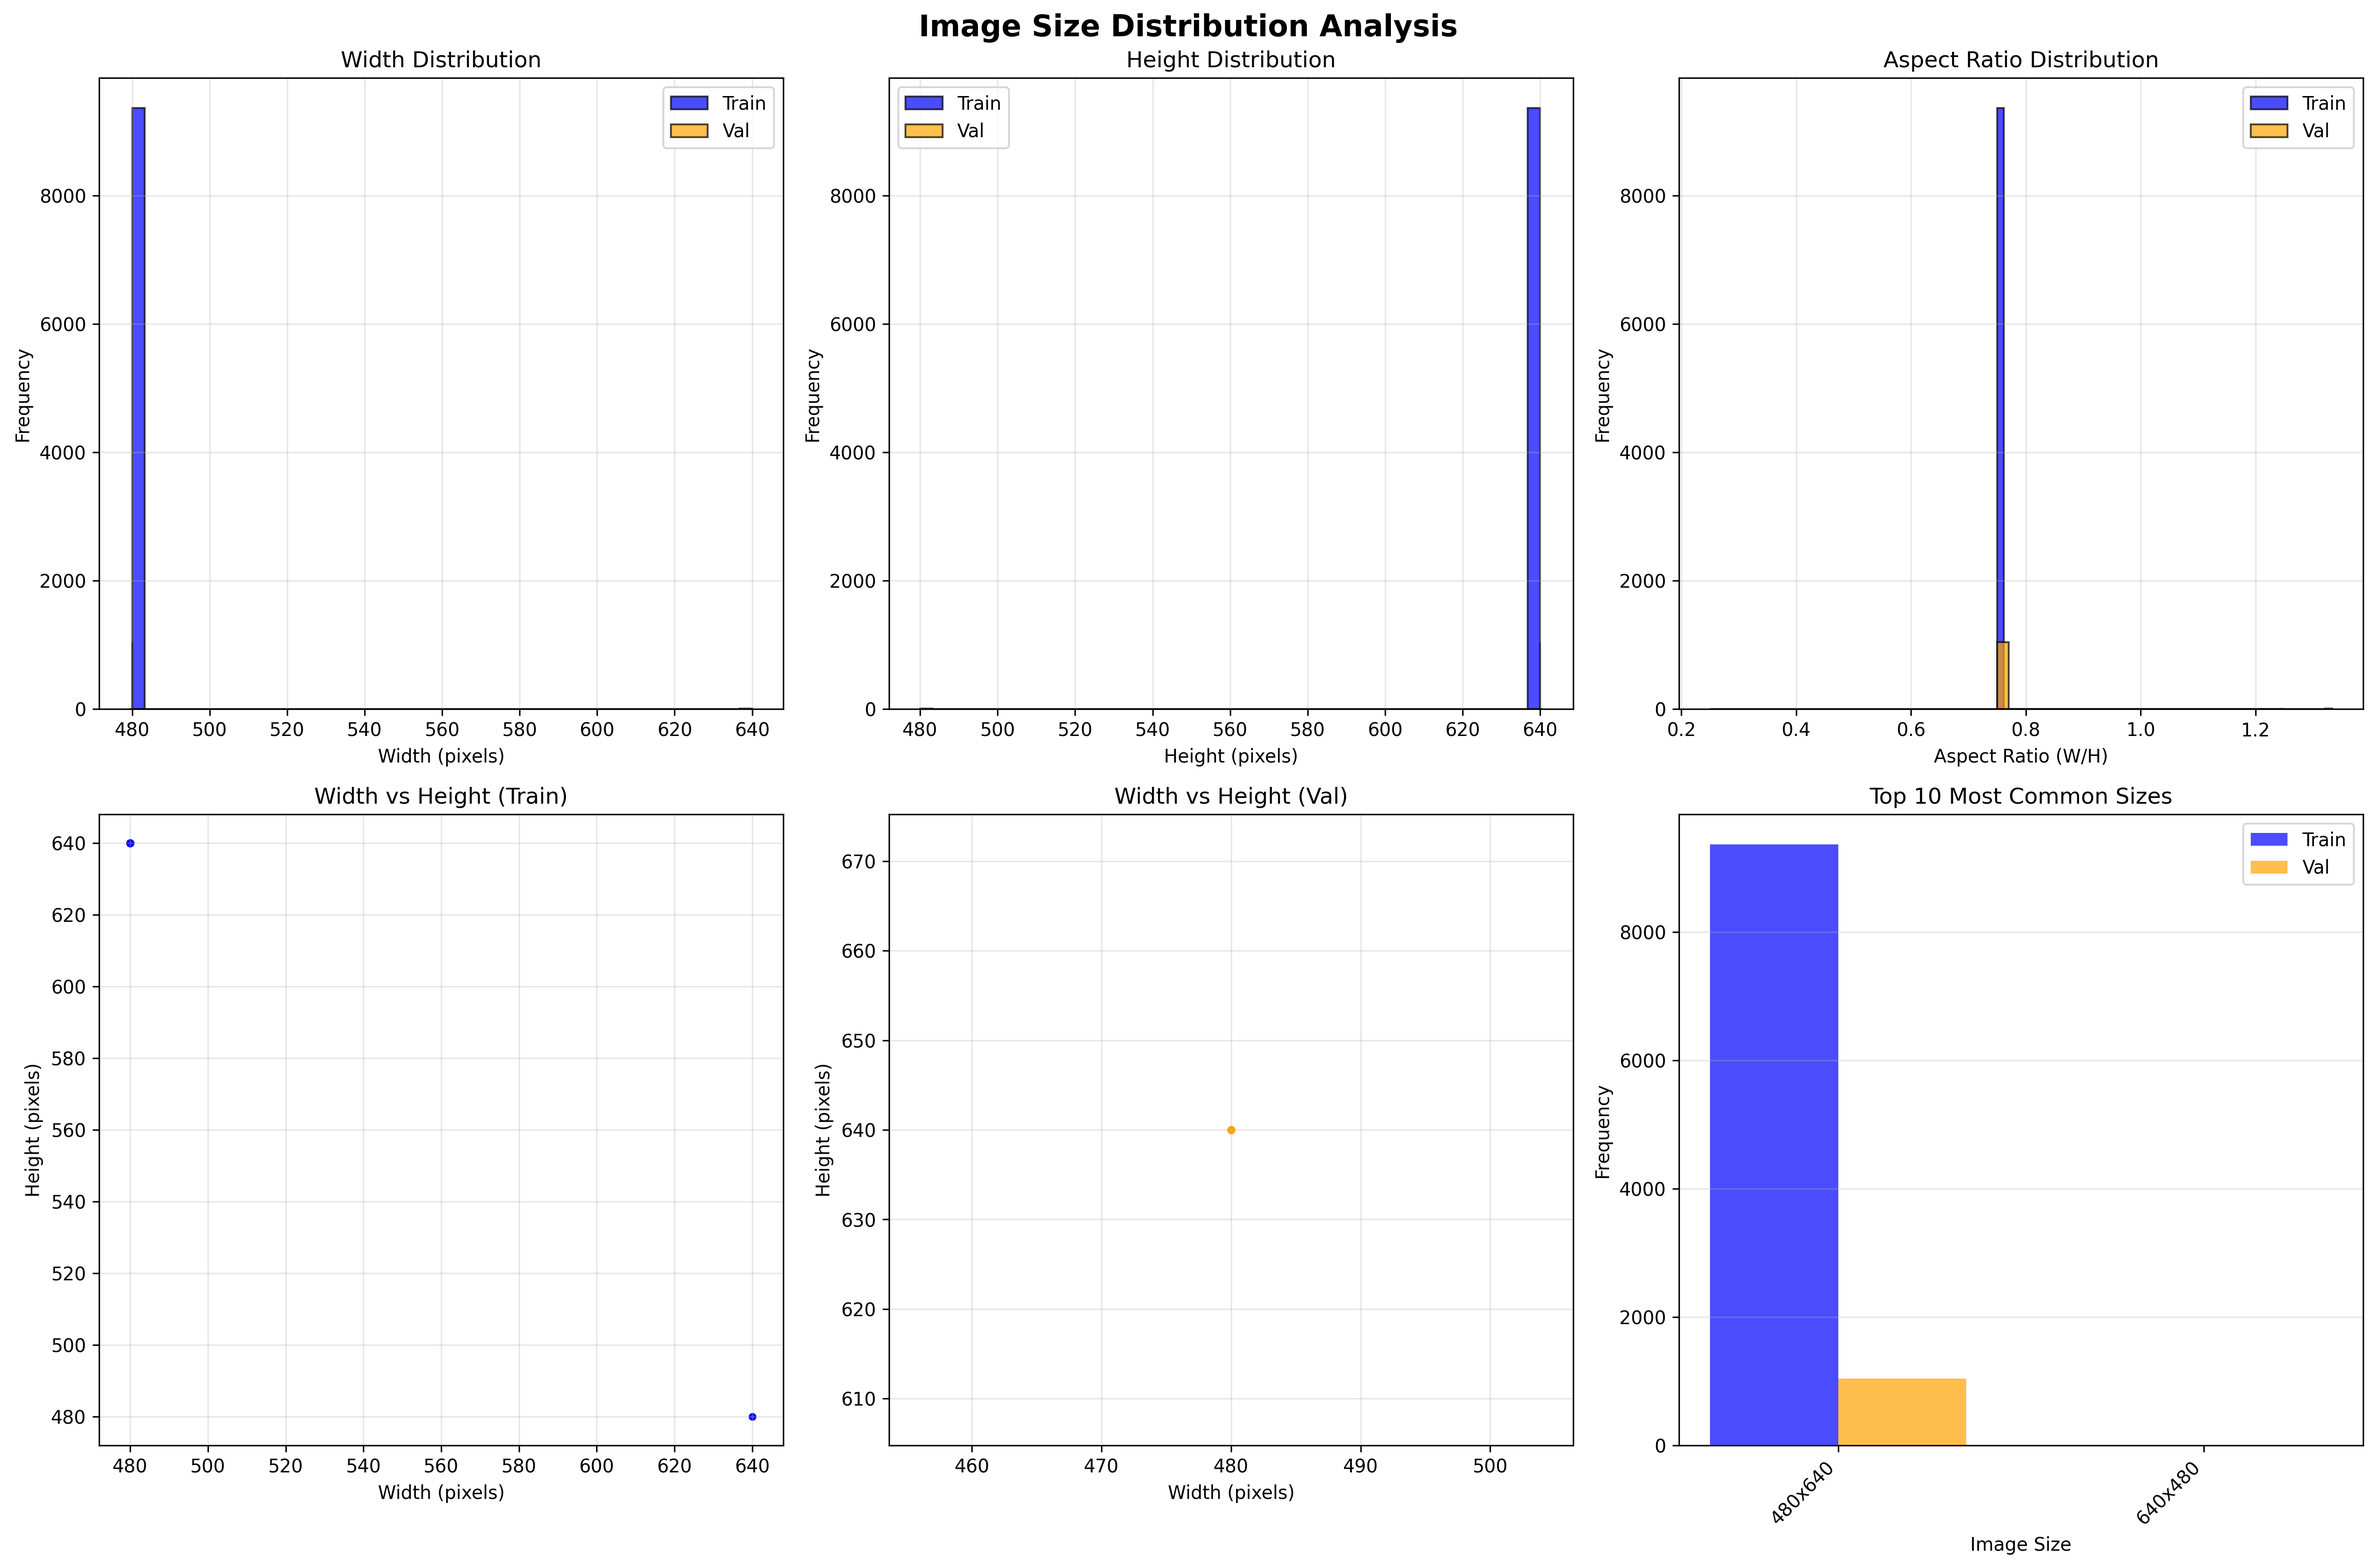
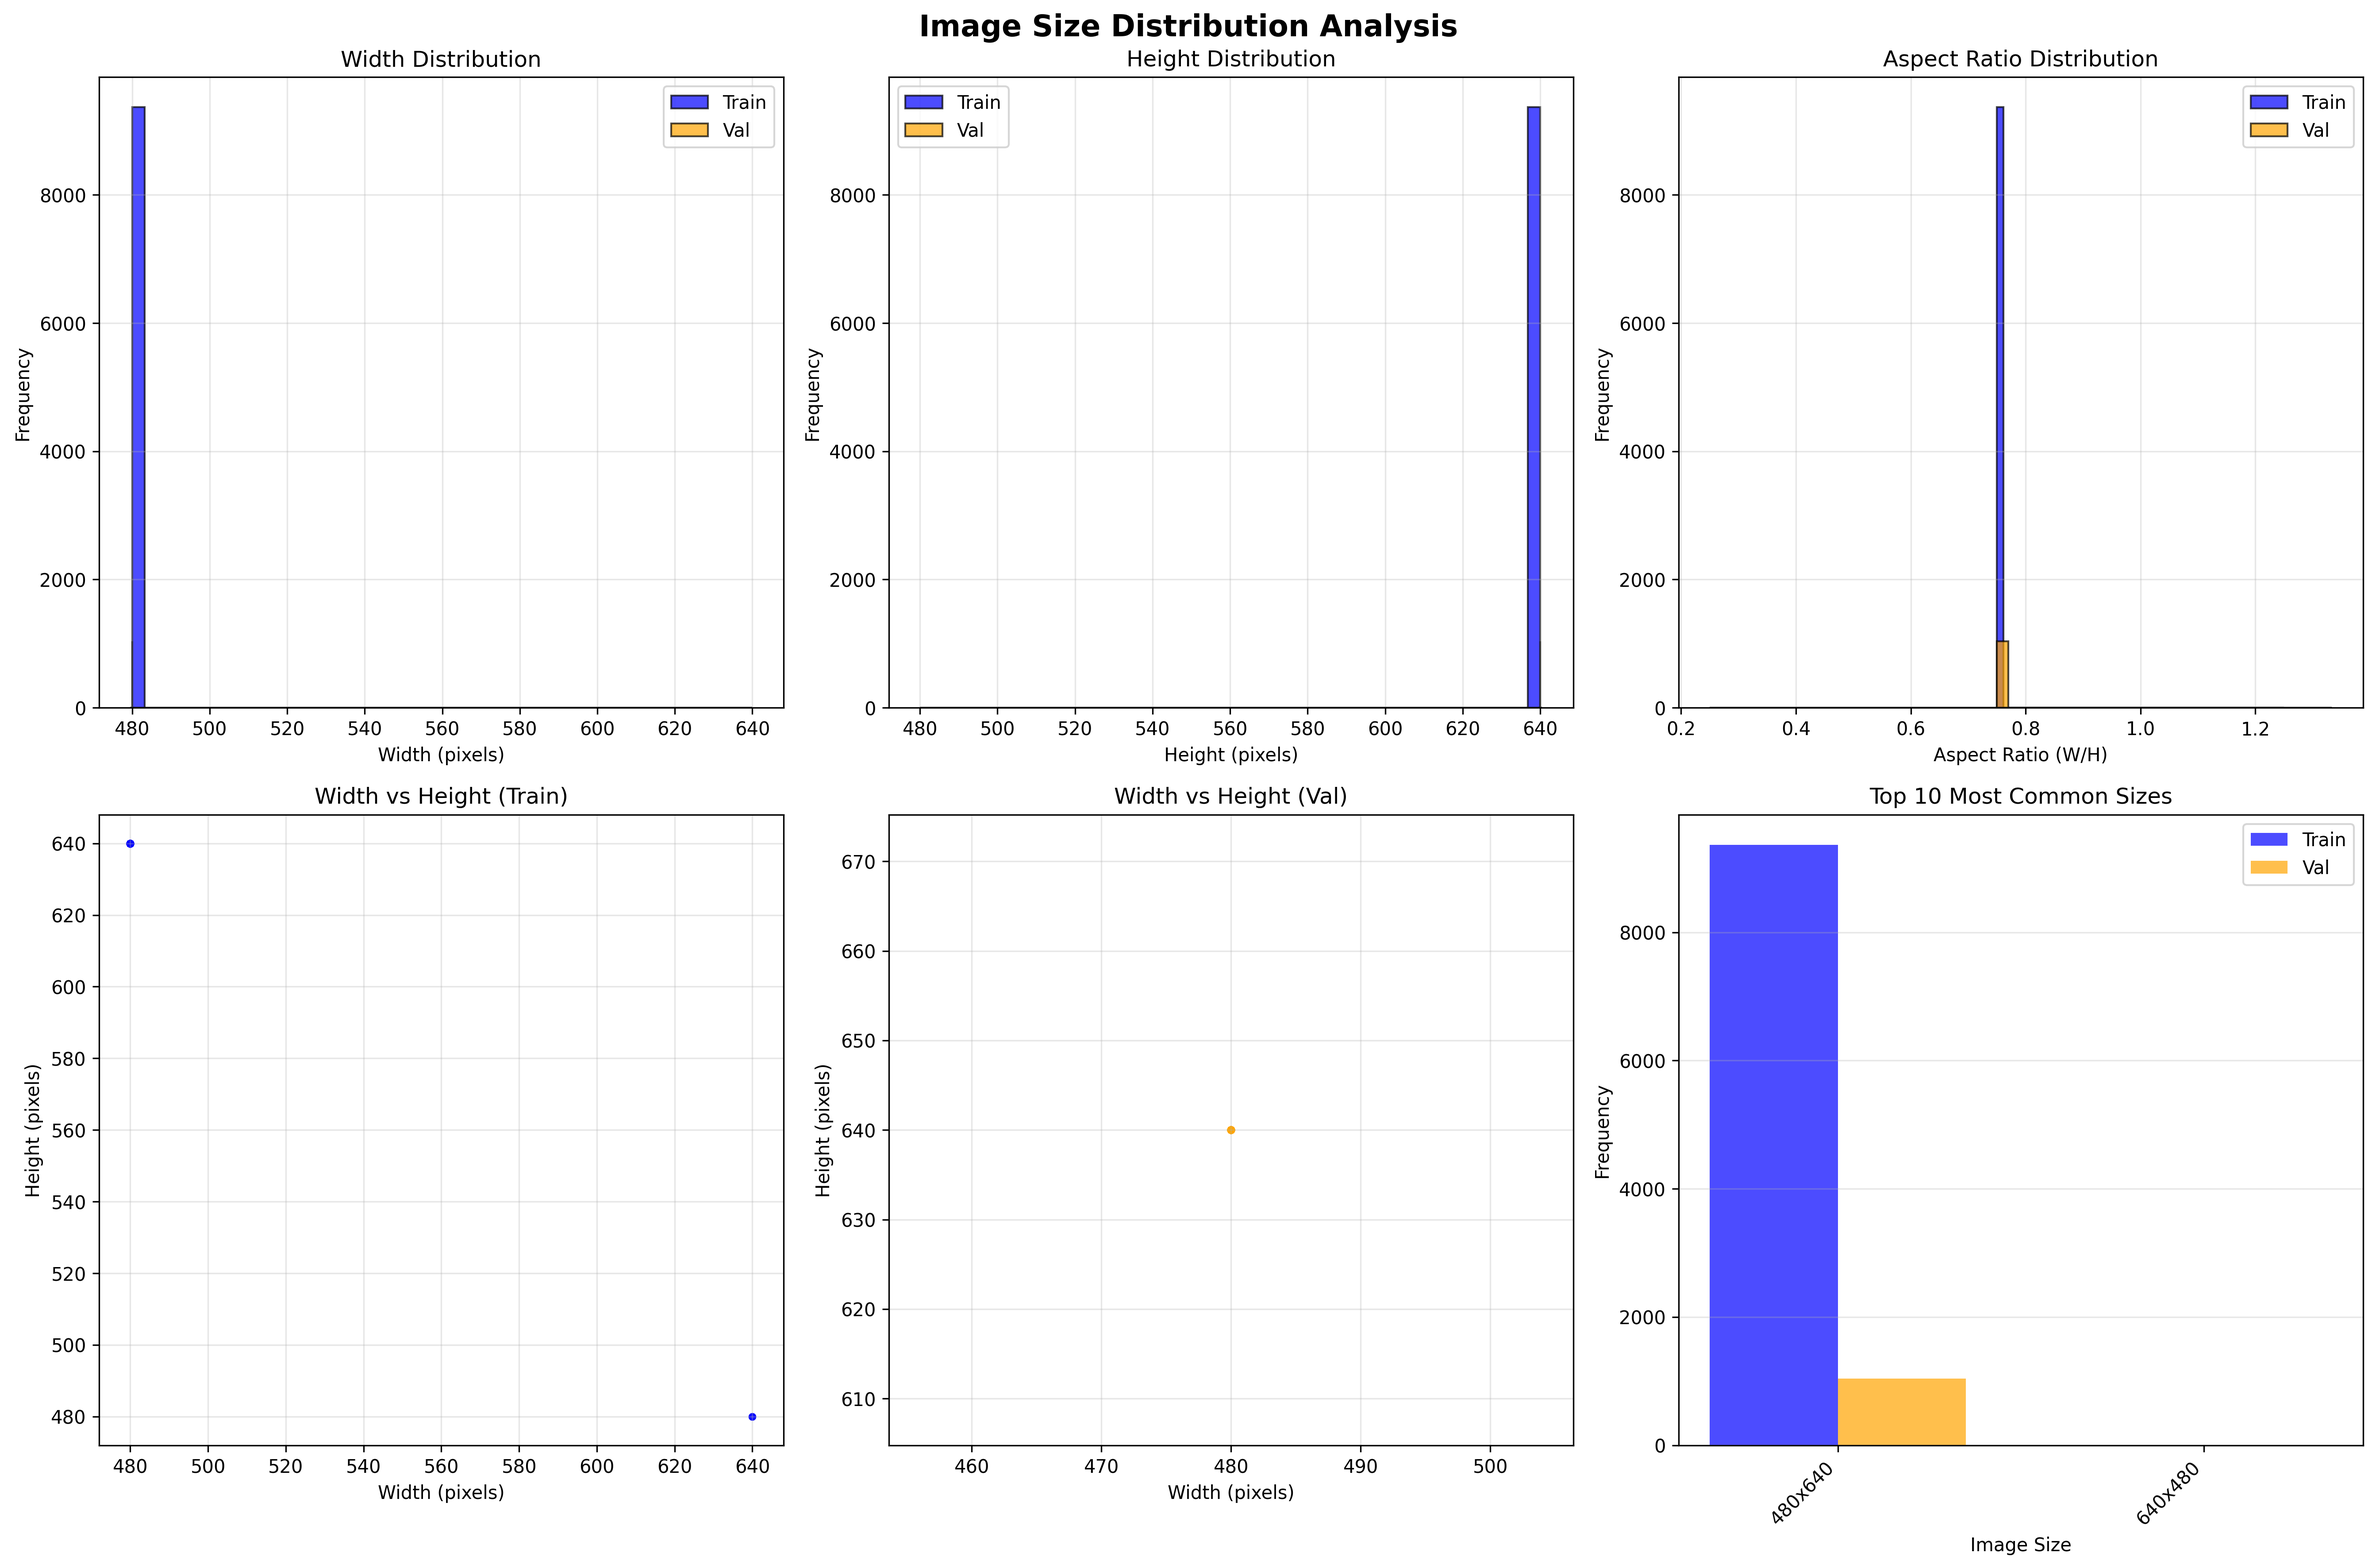
cd m234

diff --git a/ShunyaNet/Paddy-Disease-Recognition/preprocess/analyze_image_sizes.py b/ShunyaNet/Paddy-Disease-Recognition/preprocess/analyze_image_sizes.py
@@ -288,27 +288,6 @@ def print_recommendations(train_stats, val_stats):
         else:
             print("   → Recommend: 384x384 or 512x512")
 
-    print("\n" + "-" * 70)
-    print("SAMPLE TRANSFORM CODE:")
-    print("-" * 70)
-    print("""
-from torchvision import transforms
-
-train_transform = transforms.Compose([
-    transforms.Resize((224, 224)),          # Resize to fixed size
-    transforms.RandomHorizontalFlip(),
-    transforms.RandomRotation(10),
-    transforms.ToTensor(),
-    transforms.Normalize([0.485, 0.456, 0.406], [0.229, 0.224, 0.225])
-])
-
-val_transform = transforms.Compose([
-    transforms.Resize((224, 224)),          # Same size as train
-    transforms.ToTensor(),
-    transforms.Normalize([0.485, 0.456, 0.406], [0.229, 0.224, 0.225])
-])
-    """)
-    print("=" * 70)
 
 
 if __name__ == "__main__":

diff --git a/ShunyaNet/Paddy-Disease-Recognition/preprocess/test_data_utils.py b/ShunyaNet/Paddy-Disease-Recognition/preprocess/test_data_utils.py
@@ -1,13 +1,3 @@
-"""
-test_data_utils.py
-Utility functions for handling unlabeled test data in Kaggle competition format
-
-This module provides tools to:
-1. Load unlabeled test images for prediction
-2. Generate submission files in the correct format
-3. Handle the mismatch between labeled train/val and unlabeled test data
-"""
-
 import os
 import pandas as pd
 from pathlib import Path
@@ -20,8 +10,6 @@ from PIL import Image
 class UnlabeledTestDataset(Dataset):
     """
     PyTorch Dataset for unlabeled test images
-
-    Use this for making predictions on the test set.
     Since test images have no labels, this dataset only returns images and their IDs.
     """
 

diff --git a/ShunyaNet/Start/1-Split-Folder.py b/ShunyaNet/Start/1-Split-Folder.py
@@ -2,8 +2,8 @@ import splitfolders
 import os
 
 # Set your actual input and output folder paths here
-input_folder = "/Users/bharathgoud/PycharmProjects/Shunya-00/Data/CottonDiseases"
-output_folder = "/Users/bharathgoud/PycharmProjects/Shunya-00/Data/CottonDisease"
+input_folder = "/Users/bharathgoud/PycharmProjects/Shunya-00/Data/train_images"
+output_folder = "/Users/bharathgoud/PycharmProjects/Shunya-00/Data/PaddyDisease"
 
 # Check if input folder exists
 if not os.path.exists(input_folder):
